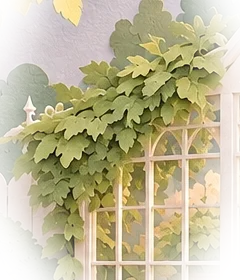
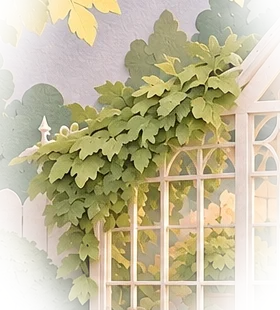
花園：月曆左右滑動換月、溫室藤蔓開紫藤與玫瑰、圖鑑直接列出 40 種、移除空花圃提示
Claude-Session: https://claude.ai/code/session_015p85XBWVqjkFtHRQgipjj8

diff --git a/src/Garden.tsx b/src/Garden.tsx
@@ -1,4 +1,4 @@
-import { useMemo, useState } from 'react'
+import { useMemo, useRef, useState } from 'react'
 import type { useStore } from './store'
 import { addDays, fmtDate, parseISO, toISO, todayISO } from './util'
 import { collection, dayFlower, dayTasks, FLOWERS, flowerOf, flowerSrc, GROUPS, STAGES, stageOf, type Flower } from './garden'
@@ -7,6 +7,7 @@ import { streak } from './habits'
 import { getSample } from './ai'
 import { Icon } from './icons'
 import { Sheet, fmt } from './ui'
+import type React from 'react'
 import GardenScene from './GardenScene'
 
 type Store = ReturnType<typeof useStore>
@@ -18,7 +19,6 @@ export default function Garden({ store }: { store: Store }) {
   const got = useMemo(() => collection(data), [data])
   const [month, setMonth] = useState(today.slice(0, 7))
   const [day, setDay] = useState<string | null>(null)
-  const [group, setGroup] = useState(0)
   const [dex, setDex] = useState<Flower | null>(null)
   const { tasks, done } = dayTasks(data)
   const bloomsThisMonth = Object.keys(data.water).filter((d) => d.startsWith(today.slice(0, 7)) && stageOf(data.water[d], goal) === 4).length
@@ -62,22 +62,15 @@ export default function Garden({ store }: { store: Store }) {
 
       <section className="g-card">
         <h2 className="g-sec">花卉圖鑑<em>已收集 {got.size} / {FLOWERS.length}</em></h2>
-        <div className="g-tabs" role="tablist">
-          {GROUPS.map((g, i) => (
-            <button key={g} role="tab" aria-selected={group === i} className={group === i ? 'on' : ''} onClick={() => setGroup(i)}>
-              {g}<small>{FLOWERS.filter((f) => f.group === i && got.has(f.id)).length}/10</small>
-            </button>
-          ))}
-        </div>
         <div className="dex">
-          {FLOWERS.filter((f) => f.group === group).map((f) => (
+          {FLOWERS.map((f) => (
             <button key={f.id} className={got.has(f.id) ? '' : 'lock'} onClick={() => setDex(f)}>
               <img src={flowerSrc(f.id, 'p')} alt="" loading="lazy" />
               <span>{got.has(f.id) ? f.name : '？？？'}</span>
             </button>
           ))}
         </div>
-        <p className="g-hint">還沒收集的花是灰色剪影。每天第一次澆水時，會優先抽還沒收集過的花。</p>
+        <p className="g-hint">還沒收集的花是灰色剪影。每天第一次澆水時，會優先抽還沒收集過的花。種過紫藤花或玫瑰，溫室兩側的藤蔓也會開花。</p>
       </section>
 
       {day && <DaySheet store={store} date={day} onClose={() => setDay(null)} />}
@@ -93,8 +86,25 @@ function Calendar({ store, month, setMonth, onPick }: { store: Store; month: str
   const first = parseISO(month + '-01')
   const days = new Date(first.getFullYear(), first.getMonth() + 1, 0).getDate()
   const lead = first.getDay()
-  const shift = (n: number) => { const d = new Date(first); d.setMonth(d.getMonth() + n); setMonth(toISO(d).slice(0, 7)) }
   const canNext = month < today.slice(0, 7)
+  const [dir, setDir] = useState<'l' | 'r' | ''>('')
+  const shift = (n: number) => {
+    if (n > 0 && !canNext) { setDir(''); return }
+    const d = new Date(first); d.setMonth(d.getMonth() + n)
+    setDir(n > 0 ? 'l' : 'r')
+    setMonth(toISO(d).slice(0, 7))
+  }
+  // 左右滑動切換月份：往左滑看下個月、往右滑看上個月
+  const touch = useRef<{ x: number; y: number } | null>(null)
+  const swipe = {
+    onTouchStart: (e: React.TouchEvent) => { touch.current = { x: e.touches[0].clientX, y: e.touches[0].clientY } },
+    onTouchEnd: (e: React.TouchEvent) => {
+      const t = touch.current; touch.current = null
+      if (!t) return
+      const dx = e.changedTouches[0].clientX - t.x, dy = e.changedTouches[0].clientY - t.y
+      if (Math.abs(dx) > 50 && Math.abs(dx) > Math.abs(dy) * 1.5) shift(dx < 0 ? 1 : -1)
+    }
+  }
   return (
     <section className="g-card">
       <h2 className="g-sec">花園月曆
@@ -104,7 +114,7 @@ function Calendar({ store, month, setMonth, onPick }: { store: Store; month: str
           <button onClick={() => shift(1)} disabled={!canNext} aria-label="下個月"><Icon name="chevron" size={18} /></button>
         </span>
       </h2>
-      <div className="cal">
+      <div className={'cal slide-' + dir} key={month} {...swipe}>
         {'日一二三四五六'.split('').map((w) => <div className="h" key={w}>{w}</div>)}
         {Array.from({ length: lead }, (_, i) => <div key={'b' + i} />)}
         {Array.from({ length: days }, (_, i) => {
@@ -123,7 +133,7 @@ function Calendar({ store, month, setMonth, onPick }: { store: Store; month: str
           )
         })}
       </div>
-      <div className="legend"><span><i className="lg bloom" />開花＝喝水達標</span><span><i className="lg grow" />小株＝沒喝夠</span><span><i className="lg lg-stamp" />今日完成</span></div>
+      <div className="legend"><span className="swipe-note">左右滑動切換月份</span><span><i className="lg bloom" />開花＝喝水達標</span><span><i className="lg grow" />小株＝沒喝夠</span><span><i className="lg lg-stamp" />今日完成</span></div>
     </section>
   )
 }

diff --git a/src/GardenScene.tsx b/src/GardenScene.tsx
@@ -1,6 +1,6 @@
 import { useEffect, useLayoutEffect, useMemo, useRef, useState } from 'react'
 import type { useStore } from './store'
-import { dayFlower, flowerOf, flowerSrc, STAGES, stageOf, type Flower } from './garden'
+import { collection, dayFlower, flowerOf, flowerSrc, STAGES, stageOf, type Flower } from './garden'
 import { fmtDate, todayISO } from './util'
 import layout from '../public/garden/spots.json'
 
@@ -55,6 +55,10 @@ export default function GardenScene({ store }: { store: Store }) {
   const blooms = useMemo(() => Object.keys(data.water).filter((d) => d < today && stageOf(data.water[d], goal) === 4).sort(), [data.water, goal, today])
   const shown = blooms.slice(-SPOTS.length)
   const planted = shown.map((d, i) => ({ date: d, f: flowerOf(dayFlower(data, d)), spot: SPOTS[i] })).filter((p): p is { date: string; f: Flower; spot: typeof SPOTS[number] } => !!p.f)
+  // 溫室兩側的藤蔓：種過紫藤花就長出紫藤，種過玫瑰／白玫瑰就爬滿玫瑰
+  const got = useMemo(() => collection(data), [data])
+  const hasWisteria = got.has('f05')
+  const hasRose = got.has('f04') || got.has('f21')
   const todayStage = stageOf(data.water[today] ?? 0, goal)
   const todayFlower = flowerOf(dayFlower(data, today))
   const todaySpot = SPOTS[Math.min(shown.length, SPOTS.length - 1)]
@@ -97,7 +101,8 @@ export default function GardenScene({ store }: { store: Store }) {
         <div className={'scene' + (night ? ' night' : '')} role="img" aria-label={`我的花園，${phaseName(m)}，種了 ${planted.length} 叢花`}>
           <img className="scene-bg" src="garden/backdrop.webp" alt="" draggable={false} />
           <img className="scene-tree" src="garden/tree.webp" alt="" draggable={false} style={{ left: 0, top: 0, width: px(860), height: py(360) }} />
-          <img className="scene-vines" src="garden/vines.webp" alt="" draggable={false} style={{ left: px(495), top: py(190), width: px(240), height: py(280) }} />
+          <img key={hasWisteria ? 'w1' : 'w0'} className={'scene-vines' + (hasWisteria ? ' bloomed' : '')} src={hasWisteria ? 'garden/vines-wisteria.webp' : 'garden/vines.webp'} alt="" draggable={false} style={{ left: px(480), top: py(170), width: px(280), height: py(310) }} />
+          <img key={hasRose ? 'r1' : 'r0'} className={'scene-vines right' + (hasRose ? ' bloomed' : '')} src={hasRose ? 'garden/vines-rose.webp' : 'garden/vines-right.webp'} alt="" draggable={false} style={{ left: px(1020), top: py(150), width: px(280), height: py(370) }} />
           {sun && <span className="sun" style={{ left: px(sun.x), top: py(sun.y), opacity: 1 - light.stars }} />}
           {moon && night && <span className="moon" style={{ left: px(moon.x), top: py(moon.y), opacity: light.stars }} />}
           <span className="fountain" style={{ left: px(1250), top: py(700) }} aria-hidden="true"><i /><i /><i /></span>
@@ -139,7 +144,6 @@ export default function GardenScene({ store }: { store: Store }) {
       </div>
       <span className="scene-time">{phaseName(m)} {String(now.getHours()).padStart(2, '0')}:{String(now.getMinutes()).padStart(2, '0')}</span>
       {hint && <span className="scene-hint" aria-hidden="true">‹ 左右滑動看整座花園 ›</span>}
-      {planted.length === 0 && <span className="scene-empty">花圃還是空的。<br />喝水達標的那天，會在花圃種下一小叢花。</span>}
     </div>
   )
 }

diff --git a/src/style.css b/src/style.css
@@ -647,3 +647,16 @@ body:has(.garden-app) { background: var(--gp-bg); }
 @media (prefers-reduced-motion: reduce) { .scene-vines, .fountain i, .scene-hint { animation: none; } }
 
 .water-btns { grid-template-columns: 40px 1fr 1fr 1fr 40px; }
+
+/* 月曆左右滑動 */
+.cal { touch-action: pan-y; }
+.cal.slide-l { animation: calInL .32s ease-out; }
+.cal.slide-r { animation: calInR .32s ease-out; }
+@keyframes calInL { from { transform: translateX(28%); opacity: 0; } to { transform: none; opacity: 1; } }
+@keyframes calInR { from { transform: translateX(-28%); opacity: 0; } to { transform: none; opacity: 1; } }
+.swipe-note { width: 100%; }
+.dex { grid-template-columns: repeat(4, 1fr); }
+.scene-vines.right { transform-origin: 50% 0%; animation: wisteriaSway 6s ease-in-out -2s infinite; }
+.scene-vines.bloomed { animation: vineBloom 1.4s ease-out, wisteriaSway 5.2s ease-in-out 1.4s infinite; }
+@keyframes vineBloom { from { opacity: 0; } to { opacity: 1; } }
+@media (prefers-reduced-motion: reduce) { .cal.slide-l, .cal.slide-r, .scene-vines.right, .scene-vines.bloomed { animation: none; } }

diff --git a/scripts/garden-scene.py b/scripts/garden-scene.py
@@ -1,5 +1,5 @@
 """從「空花圃」插畫產生活花園的圖層與種花位置。
-用法：python3 scripts/garden-scene.py <空花圃插畫.png> <輸出資料夾>
+用法：python3 scripts/garden-scene.py <空花圃插畫.png> <輸出資料夾> <預覽圖> <開滿花的插畫.png>
 輸出：backdrop.webp（整張背景）、tree.webp / vines.webp（隨風搖曳的覆蓋層）、spots.json（每一小叢花的位置，依種植順序）"""
 import sys, json
 import numpy as np
@@ -21,7 +21,16 @@ def overlay(box, name, ellipse):
     c.save(out + name, quality=84, method=4)
 
 overlay((0, 0, 860, 360), 'tree.webp', (-0.3, -0.6, 1.0, 0.95))       # 左上大樹的樹冠
-overlay((495, 190, 735, 470), 'vines.webp', (0.05, -0.1, 0.95, 1.0))   # 溫室左側的藤蔓
+LEFT, RIGHT = (480, 170, 760, 480), (1020, 150, 1300, 520)
+overlay(LEFT, 'vines.webp', (0.05, -0.1, 0.95, 1.0))                   # 溫室左側的藤蔓
+overlay(RIGHT, 'vines-right.webp', (0.08, -0.05, 0.92, 1.0))          # 溫室右側的藤蔓
+if len(sys.argv) > 4:                                                  # 開滿花的版本：紫藤、玫瑰藤
+    full = Image.open(sys.argv[4]).convert('RGB')
+    keep = im
+    im = full
+    overlay(LEFT, 'vines-wisteria.webp', (0.05, -0.1, 0.95, 1.0))
+    overlay(RIGHT, 'vines-rose.webp', (0.08, -0.05, 0.92, 1.0))
+    im = keep
 
 # 找出土壤花圃（棕色區域），再補上被植物擋住的兩小塊
 a = np.array(im).astype(float)
